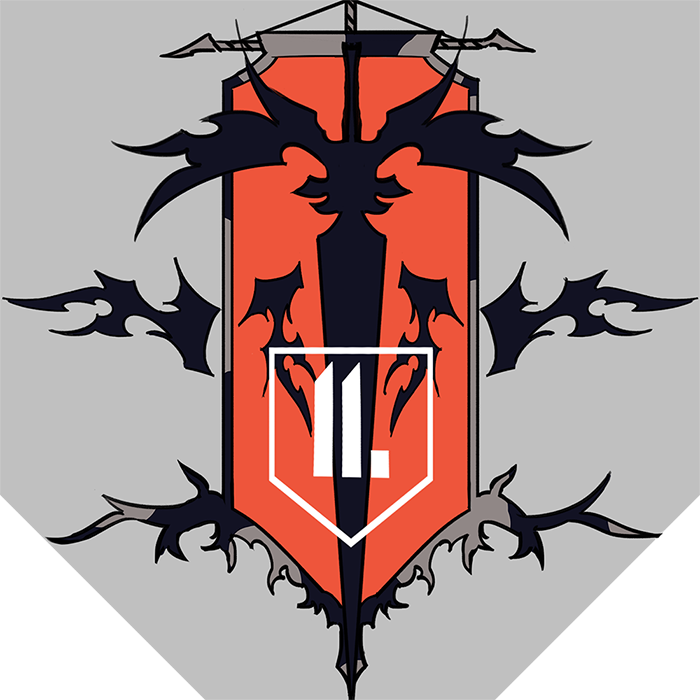
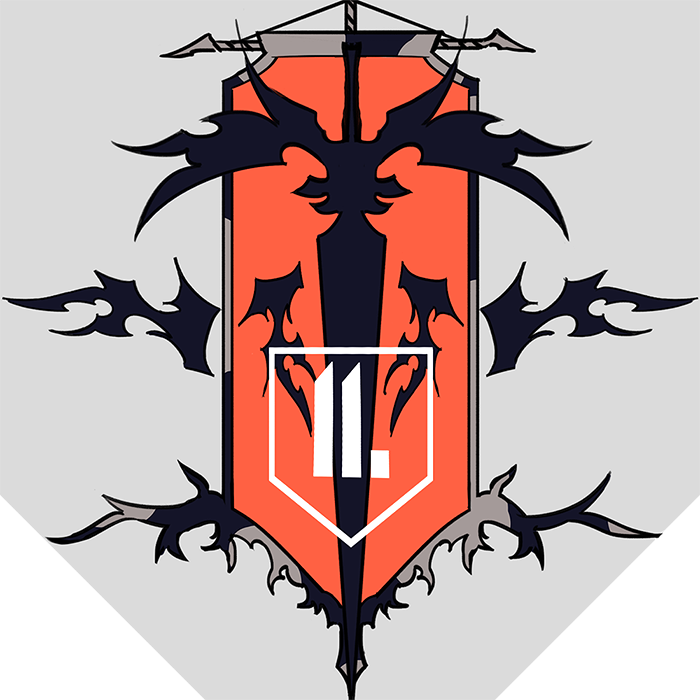
たたき台作成

diff --git a/ris-info/src/home/Home.tsx b/ris-info/src/home/Home.tsx
@@ -24,8 +24,31 @@ function Home() {
         <p>
         </p>
       </div>
-      <p>Welcome to Riften Info</p>
-      <p>Your one-stop solution for all information related to Riften.</p>
+      {/* ここにコンテンツを追加 */}
+      <h2 className="common_animated_text">
+        {"Welcome to Riften Info".split("").map((char, i) => (
+          <span key={i} style={{
+            display: 'inline-block',
+            opacity: 0,
+            animation: `fadeInLeft 0.4s forwards`,
+            animationDelay: `${i * 0.08}s`
+          }}>{char === ' ' ? '\u00A0' : char}</span>
+        ))}
+      </h2>
+      <h2 className="common_animated_text">
+        {"Your one-stop solution for all information related to Riften.".split("").map((char, i) => (
+          <span key={i} style={{
+            display: 'inline-block',
+            opacity: 0,
+            animation: `fadeInLeft 0.4s forwards`,
+            animationDelay: `${i * 0.08}s`
+          }}>{char === ' ' ? '\u00A0' : char}</span>
+        ))}
+      </h2>
+      <div className="common_padding">
+        <p>
+        </p>
+      </div>
     </>
   )
 }

diff --git a/ris-info/src/products-services/ProductsServices.tsx b/ris-info/src/products-services/ProductsServices.tsx
@@ -24,6 +24,23 @@ function ProductsServices() {
         <p>
         </p>
       </div>
+      {/* ここにコンテンツを追加 */}
+      <a href="https://github.com/deidra-JP-windows?tab=repositories&q=ris&type=&language=&sort=" target="_blank" rel="noopener noreferrer">
+        <h2 className="common_animated_text">
+          {"GitHub Repositories".split("").map((char, i) => (
+            <span key={i} style={{
+              display: 'inline-block',
+              opacity: 0,
+              animation: `fadeInLeft 0.4s forwards`,
+              animationDelay: `${i * 0.08}s`
+            }}>{char === ' ' ? '\u00A0' : char}</span>
+          ))}
+        </h2>
+      </a>
+      <div className="common_padding">
+        <p>
+        </p>
+      </div>
     </>
   )
 }

diff --git a/ris-info/src/mission-vision/MissionVision.tsx b/ris-info/src/mission-vision/MissionVision.tsx
@@ -24,6 +24,21 @@ function MissionVision() {
         <p>
         </p>
       </div>
+      {/* ここにコンテンツを追加 */}
+      <h2 className="common_animated_text">
+        {"A gathering of friends spending leisure time together".split("").map((char, i) => (
+          <span key={i} style={{
+            display: 'inline-block',
+            opacity: 0,
+            animation: `fadeInLeft 0.4s forwards`,
+            animationDelay: `${i * 0.08}s`
+          }}>{char === ' ' ? '\u00A0' : char}</span>
+        ))}
+      </h2>
+      <div className="common_padding">
+        <p>
+        </p>
+      </div>
     </>
   )
 }

diff --git a/ris-info/src/news-release/NewsRelease.tsx b/ris-info/src/news-release/NewsRelease.tsx
@@ -24,6 +24,21 @@ function NewsRelease() {
         <p>
         </p>
       </div>
+      {/* ここにコンテンツを追加 */}
+      <h2 className="common_animated_text">
+        {"The recent trip was amazing. Let's go again.".split("").map((char, i) => (
+          <span key={i} style={{
+            display: 'inline-block',
+            opacity: 0,
+            animation: `fadeInLeft 0.4s forwards`,
+            animationDelay: `${i * 0.08}s`
+          }}>{char === ' ' ? '\u00A0' : char}</span>
+        ))}
+      </h2>
+      <div className="common_padding">
+        <p>
+        </p>
+      </div>
     </>
   )
 }

diff --git a/ris-info/src/recruit/Recruit.tsx b/ris-info/src/recruit/Recruit.tsx
@@ -24,6 +24,21 @@ function Recruit() {
         <p>
         </p>
       </div>
+      {/* ここにコンテンツを追加 */}
+      <h2 className="common_animated_text">
+        {"By invitation only".split("").map((char, i) => (
+          <span key={i} style={{
+            display: 'inline-block',
+            opacity: 0,
+            animation: `fadeInLeft 0.4s forwards`,
+            animationDelay: `${i * 0.08}s`
+          }}>{char === ' ' ? '\u00A0' : char}</span>
+        ))}
+      </h2>
+      <div className="common_padding">
+        <p>
+        </p>
+      </div>
     </>
   )
 }

diff --git a/ris-info/src/App.css b/ris-info/src/App.css
@@ -5,6 +5,11 @@
   text-align: center;
 }
 
+a {
+  color: #213547;
+  text-decoration: none;
+}
+
 .common_logo {
   opacity: 0;
   filter: drop-shadow(0 0 2em #31525caa);
@@ -24,14 +29,19 @@
   }
 }
 
-
-
 .common_padding {
   padding: 2em;
 }
 
 .common_animated_title {
   font-size: 1rem;
+  font-weight: bold;
+  margin-bottom: 1rem;
+  animation: fadeInLeft 1s ease-out;
+}
+
+.common_animated_text {
+  font-size: 0.8rem;
   font-weight: bold;
   margin-bottom: 1rem;
   animation: fadeInLeft 1s ease-out;

diff --git a/ris-info/index.html b/ris-info/index.html
@@ -3,6 +3,7 @@
   <head>
     <meta charset="UTF-8" />
     <meta name="viewport" content="width=device-width, initial-scale=1.0" />
+    <link rel="icon" type="image/png" href="/favicon.png" />
     <title>Riften Info</title>
   </head>
   <body>
